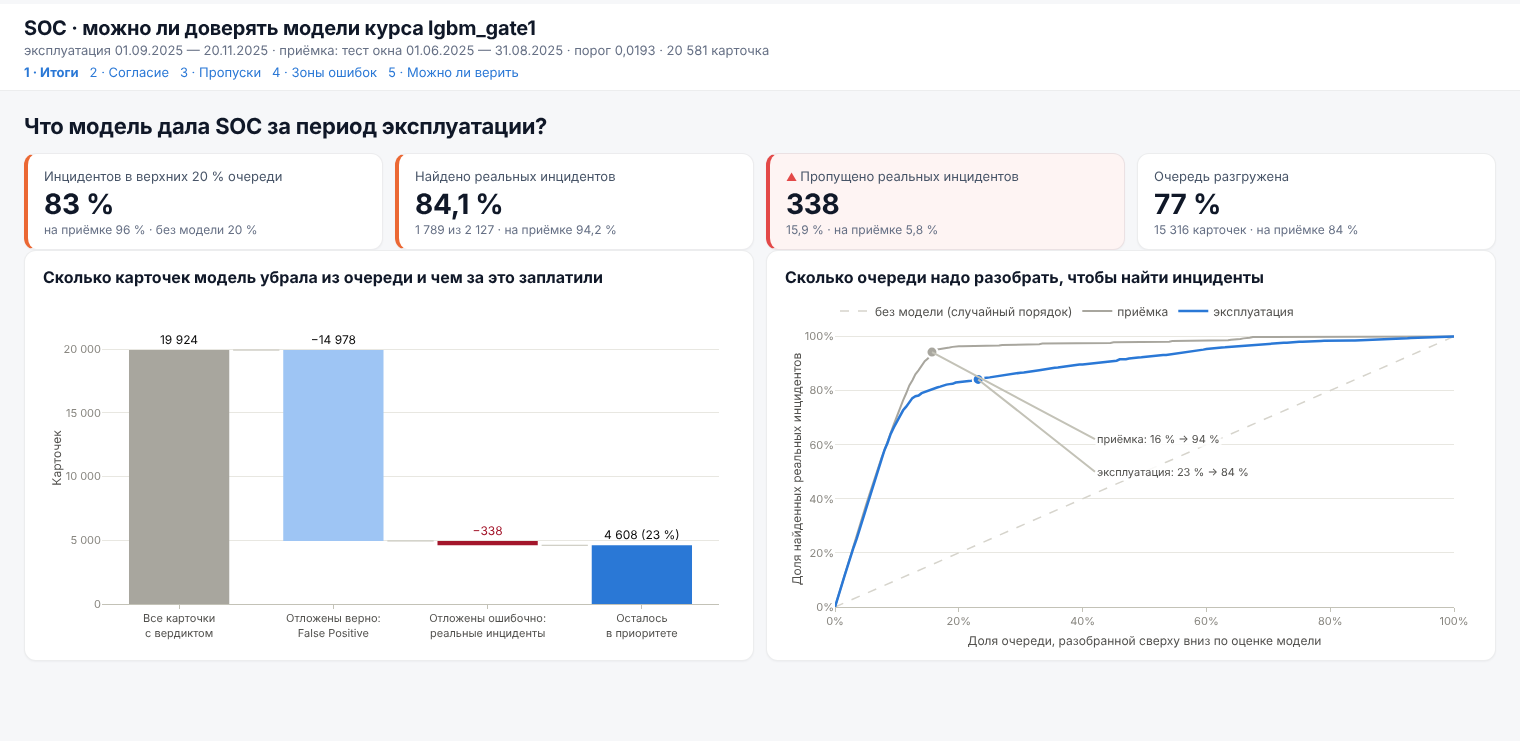
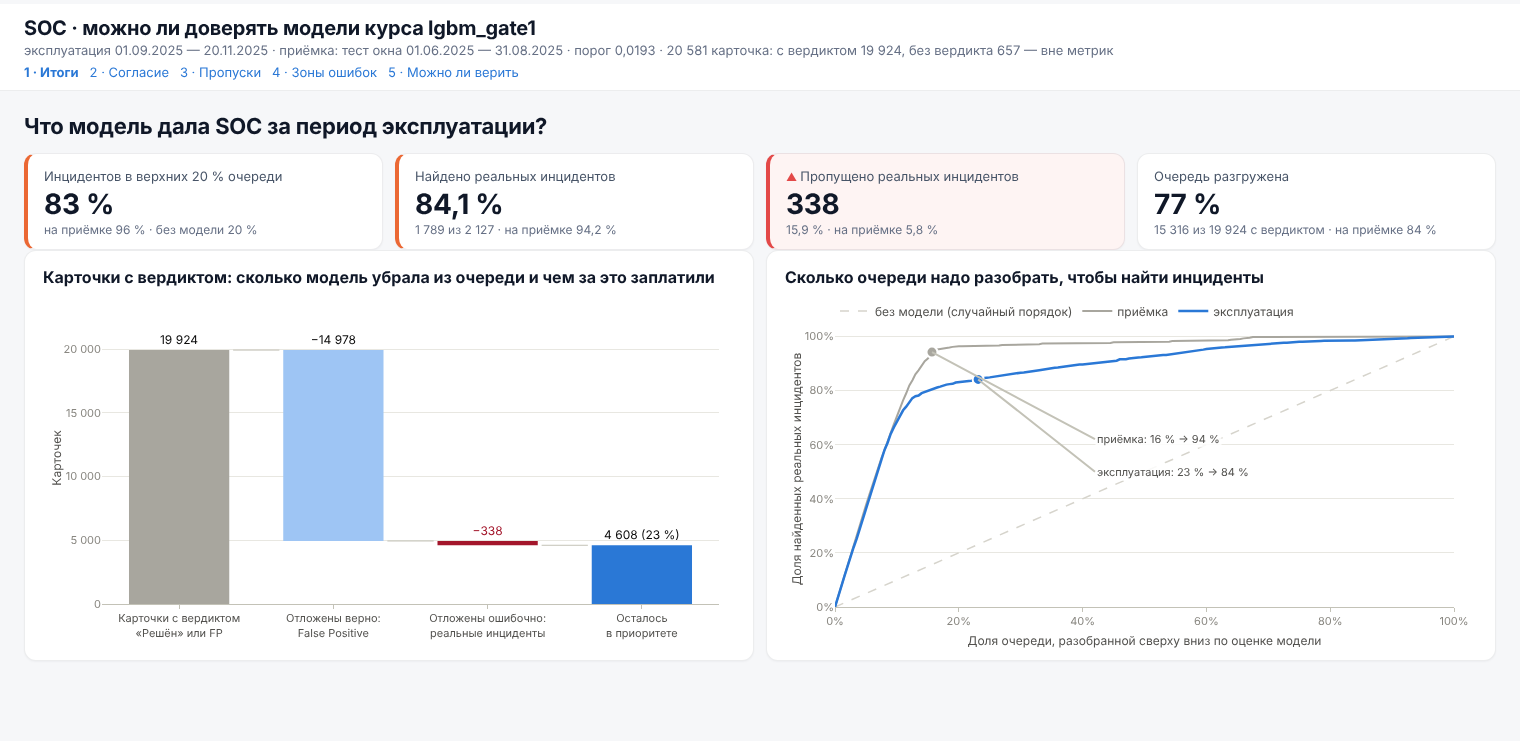
task_2: правки по ревью PR #4
- шапка показывает обе базы: все карточки и с вердиктом; каскад и плитка
  «Очередь разгружена» подписаны как «с вердиктом»
- правило карточки и его частота в обучении — по «Правилу корреляции SIEM»
  (поле области модели); prepare.py проверяет, что оно совпадает
  с «Наименованием» (100 %)
- «Пропущено высокой критичности»: сигнал по доле пропусков среди
  инцидентов высокой и критической критичности против приёмки
  (интервал Уилсона), подпись «N из M»
- «Согласие на инцидентах / на FP» и «FP в приоритете»: свой порог —
  ниже приёмки больше чем на 5 п. п. с учётом интервала

diff --git a/task_2/dashboard_kpis.py b/task_2/dashboard_kpis.py
@@ -14,6 +14,9 @@ import dashboard_data as dd
 
 DASH = "—"
 LOW_SHARE_DROP = 0.5    # разгрузка очереди упала более чем вдвое против приёмки — сигнал
+AGREE_DROP = 0.05       # согласие с аналитиком (на инцидентах или на FP) ниже приёмки больше чем на 5 п. п.
+                        # даже с учётом 95 %-ного интервала — сигнал
+HIGH_CRIT = ["Высокая", "Критическая"]
 AUC_DROP = 0.05         # AUC ниже приёмки больше чем на 0,05 — сигнал
 OVERCONF = 1.5          # модель завышает долю инцидентов в 1,5 раза и больше — сигнал
 CONFIDENT_MISS = 0.5    # больше половины пропусков далеко от порога — сигнал (сдвиг порога не поможет)
@@ -67,6 +70,11 @@ def _top_share(d: pd.DataFrame, share: float = TOP_SHARE) -> float:
     return float(np.interp(share, g["x"], g["y"])) if len(g) else np.nan
 
 
+def below_acceptance(k: int, n: int, ref: float, drop: float = AGREE_DROP) -> bool:
+    """Доля k/n ниже эталона приёмки ref больше чем на drop даже по верхней границе интервала Уилсона."""
+    return bool(n and np.isfinite(ref) and dd.wilson(k, n)[1] < ref - drop)
+
+
 def results(oper: pd.DataFrame, c: dd.Confusion, cv: dd.Confusion, target_miss: float,
             val: pd.DataFrame | None = None) -> dict:
     if c.n == 0:
@@ -79,7 +87,7 @@ def results(oper: pd.DataFrame, c: dd.Confusion, cv: dd.Confusion, target_miss: 
                  alert=dd.wilson(c.fn, c.pos)[0] > target_miss)       # хуже приёмки с учётом случайности
     dropped = cv.n and c.low_share < cv.low_share * LOW_SHARE_DROP
     out |= _tile("r_low", dd.fmt_pct(c.low_share, 0),
-                 f"{dd.fmt_int(c.fn + c.tn)} карточек · на приёмке {dd.fmt_pct(cv.low_share, 0)}",
+                 f"{dd.fmt_int(c.fn + c.tn)} из {dd.fmt_int(c.n)} с вердиктом · на приёмке {dd.fmt_pct(cv.low_share, 0)}",
                  alert=bool(dropped))
     return out
 
@@ -93,14 +101,16 @@ def agreement(oper: pd.DataFrame, c: dd.Confusion, cv: dd.Confusion) -> dict:
     ratio = c.neg / c.pos if c.pos else np.nan
     out |= _tile("a_all", dd.fmt_pct(c.agreement),
                  f"FP в {dd.fmt_num(ratio, 1)} раза больше инцидентов" if c.pos else "")
-    out |= _tile("a_inc", dd.fmt_pct(c.recall), f"на приёмке {dd.fmt_pct(cv.recall)}", kind="kpi-real")
+    out |= _tile("a_inc", dd.fmt_pct(c.recall), f"на приёмке {dd.fmt_pct(cv.recall)}",
+                 alert=below_acceptance(c.tp, c.pos, cv.recall), kind="kpi-real")
     out |= _tile("a_fp", dd.fmt_pct(c.specificity), f"на приёмке {dd.fmt_pct(cv.specificity)}",
-                 alert=bool(cv.n and c.specificity < cv.specificity * LOW_SHARE_DROP), kind="kpi-fp")
+                 alert=below_acceptance(c.tn, c.neg, cv.specificity), kind="kpi-fp")
     return out
 
 
 # ---------------------------------------------------------------- 3. Пропуски
-def misses(oper: pd.DataFrame, c: dd.Confusion, mon_oper: pd.DataFrame, thr: float, target_miss: float) -> dict:
+def misses(oper: pd.DataFrame, c: dd.Confusion, mon_oper: pd.DataFrame, thr: float, target_miss: float,
+           val: pd.DataFrame | None = None) -> dict:
     if c.pos == 0:
         return empty("misses")
     lo, hi = dd.wilson(c.fn, c.pos)
@@ -112,11 +122,18 @@ def misses(oper: pd.DataFrame, c: dd.Confusion, mon_oper: pd.DataFrame, thr: flo
         out |= _tile("m_months", f"{len(bad)} из {len(mon_oper)}", note, alert=len(bad) > 0)
     else:
         out |= _tile("m_months", DASH)
-    miss = oper[(oper["y"] == 1) & ~oper["pred"]]
-    high = int(miss["crit"].isin(["Высокая", "Критическая"]).sum())
-    out |= _tile("m_high", dd.fmt_int(high),
-                 f"из {dd.fmt_int(len(miss))} {dd.plural(len(miss), ('пропуска', 'пропусков', 'пропусков'))}",
-                 alert=high > 0)
+    # пропуски высокой и критической критичности: доля среди таких инцидентов против приёмки
+    inc_h = oper[(oper["y"] == 1) & oper["crit"].isin(HIGH_CRIT)]
+    fn_h = int((~inc_h["pred"]).sum())
+    ref_h = target_miss
+    if val is not None:
+        val_h = val[(val["y"] == 1) & val["crit"].isin(HIGH_CRIT)]
+        if len(val_h) >= dd.MIN_POS:                    # на малой приёмке берём общий уровень пропусков
+            ref_h = float((~val_h["pred"]).mean())
+    out |= _tile("m_high", dd.fmt_int(fn_h),
+                 f"{fn_h} из {dd.fmt_int(len(inc_h))} ({dd.fmt_pct(fn_h / len(inc_h), 0) if len(inc_h) else DASH}) · "
+                 f"на приёмке {dd.fmt_pct(ref_h)}",
+                 alert=bool(len(inc_h) and dd.wilson(fn_h, len(inc_h))[0] > ref_h))
     near, n = dd.near_threshold_share(oper, thr)
     far = n - near                                       # оценка ниже половины порога: сдвиг порога не вернёт
     out |= _tile("m_near", dd.fmt_pct(far / n, 0) if n else DASH,
@@ -126,7 +143,7 @@ def misses(oper: pd.DataFrame, c: dd.Confusion, mon_oper: pd.DataFrame, thr: flo
 
 
 # ---------------------------------------------------------------- 4. Зоны ошибок
-def errors(oper: pd.DataFrame, c: dd.Confusion) -> dict:
+def errors(oper: pd.DataFrame, c: dd.Confusion, cv: dd.Confusion | None = None) -> dict:
     if c.n == 0:
         return empty("errors")
     worst = None
@@ -163,7 +180,9 @@ def errors(oper: pd.DataFrame, c: dd.Confusion) -> dict:
                      alert=ru > 2 * c.miss)
     else:
         out |= _tile("e_new", DASH, "нет инцидентов новых правил")
-    out |= _tile("e_fp", dd.fmt_pct(1 - c.specificity, 0), f"{dd.fmt_int(c.fp)} карточек",
+    out |= _tile("e_fp", dd.fmt_pct(1 - c.specificity, 0), f"{dd.fmt_int(c.fp)} карточек · на приёмке {dd.fmt_pct(1 - cv.specificity, 0)}"
+                 if cv is not None and cv.neg else f"{dd.fmt_int(c.fp)} карточек",
+                 alert=bool(cv is not None and below_acceptance(c.tn, c.neg, cv.specificity)),
                  kind="kpi-fp")
     return out
 

diff --git a/task_2/report.py b/task_2/report.py
@@ -19,7 +19,7 @@ import dashboard_data as dd
 OUT = Path(__file__).resolve().parent / "REPORT.md"
 
 CHARTS = [
-    ("1 · Итоги", "Сколько карточек модель убрала из очереди и чем за это заплатили", "Каскадная (waterfall)", "waterfall",
+    ("1 · Итоги", "Карточки с вердиктом: сколько модель убрала из очереди и чем за это заплатили", "Каскадная (waterfall)", "waterfall",
      "круговая: не показывает последовательность «всё → убрали → осталось» и теряет маленький, но важный шаг пропусков"),
     ("1 · Итоги", "Сколько очереди надо разобрать, чтобы найти инциденты", "Кривая поиска (cumulative gains)", "gains",
      "ROC-кривая: FPR непонятен руководителю, а вопрос «сколько карточек разобрать» она не отвечает"),
@@ -105,7 +105,7 @@ def build(store: dd.Store, f: dd.Filters | None = None) -> str:
                         f"против {dd.fmt_pct(cv.low_share, 0)} на приёмке.")
     else:
         queue_bullet = (f"- **Очередь модель разгружает почти как на приёмке:** откладывает {dd.fmt_pct(c.low_share, 0)} "
-                        f"карточек (на приёмке {dd.fmt_pct(cv.low_share, 0)}). ")
+                        f"карточек с вердиктом (на приёмке {dd.fmt_pct(cv.low_share, 0)}). ")
         if c.precision < cv.precision / 1.5:
             queue_bullet += (f"Но доля реальных инцидентов в приоритетной очереди упала: {dd.fmt_pct(c.precision, 0)} "
                              f"против {dd.fmt_pct(cv.precision, 0)} на приёмке.")
@@ -164,7 +164,9 @@ def build(store: dd.Store, f: dd.Filters | None = None) -> str:
         f"*Каскадная диаграмма.* Из {dd.fmt_int(c.n)} карточек с вердиктом модель отложила {dd.fmt_int(c.fn + c.tn)} "
         f"({dd.fmt_pct(c.low_share)}): {dd.fmt_int(c.tn)} верно (False Positive) и {c.fn} ошибочно (реальные инциденты). "
         f"В приоритете осталось {dd.fmt_int(c.tp + c.fp)} карточек, и инцидентом в них оказывается каждая "
-        f"{every(c.precision)}-я ({dd.fmt_pct(c.precision)}); на приёмке — {dd.fmt_pct(cv.precision)}.",
+        f"{every(c.precision)}-я ({dd.fmt_pct(c.precision)}); на приёмке — {dd.fmt_pct(cv.precision)}. "
+        f"Ещё {dd.fmt_int((oper['y'] < 0).sum())} карточек без вердикта модель тоже оценила, но в каскад и в долю "
+        "разгрузки они не входят: сверить их решение не с чем.",
         "",
         f"*Кривая поиска.* Если разбирать очередь сверху вниз по оценке модели, первые 20 % карточек содержат "
         f"{dd.fmt_pct(g20, 0)} реальных инцидентов в эксплуатации против {dd.fmt_pct(g20v, 0)} на приёмке (без модели — 20 %). "

diff --git a/task_2/prepare.py b/task_2/prepare.py
@@ -85,6 +85,11 @@ def first_item(x) -> str | None:
     return x
 
 
+def rule_of(cards: pd.DataFrame) -> pd.Series:
+    """Правило SIEM карточки — из «Правила корреляции SIEM», того же поля, что задаёт область модели."""
+    return cards["Правило корреляции SIEM"].map(first_item)
+
+
 def needed_columns(advisor: CourseAdvisor, available: list[str]) -> list[str]:
     cfg = advisor.cfg
     cols = set(EXTRA_COLS) | set(advisor.data_mod.LIST_LEN_SOURCE)
@@ -161,7 +166,7 @@ def build_frame(cards: pd.DataFrame, proba: np.ndarray, part: str, rule_counts: 
         "verdict": cards["Вердикт"].to_numpy(),
         "y": cards["Вердикт"].map(LABELS).fillna(-1).astype("int8").to_numpy(),
         "proba": proba,
-        "rule": cards["Наименование"].to_numpy(),
+        "rule": rule_of(cards).to_numpy(),
         "inc_type": cards["Тип инцидента"].map(first_item).to_numpy(),
         "irp": cards["Пиктограмма IRP"].map(first_item).to_numpy(),
         "crit": cards["Критичность"].map(first_item).to_numpy(),
@@ -196,7 +201,12 @@ def main(path: Path, course_dir: Path) -> None:
     print(f"Эксплуатация: {len(oper):,} карточек в области модели "
           f"(вне области: {int(((created >= OPER_START) & ~scope).sum())})")
 
-    rule_counts = raw.loc[ids.isin(split["train"]), "Наименование"].value_counts()
+    # частота правила в обучении — по «Правилу корреляции SIEM»; модель видит «Наименование»
+    # (freq_Наименование), поэтому проверяем, что это одно и то же правило
+    rules = rule_of(raw)
+    same_rule = float((rules == raw["Наименование"])[rules.notna()].mean())
+    print(f"«Правило корреляции SIEM» совпадает с «Наименованием» у {same_rule:.2%} карточек")
+    rule_counts = rules[ids.isin(split["train"])].value_counts()
     p_test = advisor.predict_proba(test)
     p_oper = advisor.predict_proba(oper)
     scored = pd.concat([build_frame(test, p_test, "Приёмка", rule_counts),
@@ -232,7 +242,7 @@ def main(path: Path, course_dir: Path) -> None:
         "n_train": len(split["train"]),
         "pos_rate_train": float(raw.loc[ids.isin(split["train"]), "Вердикт"].eq("Решён").mean()),
         "threshold": tau, "target_miss": m_test["miss"], "target_recall": m_test["recall"],
-        "policies": policies, "default_policy": tau_label,
+        "policies": policies, "default_policy": tau_label, "rule_field_match": same_rule,
         "val_metrics": m_test, "oper_metrics": m_oper, "published_test_match": same,
     }
     (AGG_DIR / "meta.json").write_text(json.dumps(meta, ensure_ascii=False, indent=2), encoding="utf-8")

diff --git a/task_2/dashboard.py b/task_2/dashboard.py
@@ -52,9 +52,12 @@ def caption(store: dd.Store, f: dd.Filters, oper: pd.DataFrame) -> str:
     p = store.meta["periods"]
     span = (f"эксплуатация {dd.fmt_date(p['oper'][0])} — {dd.fmt_date(p['oper'][1])}" if f.period == dd.PERIOD_ALL
             else f"эксплуатация: {f.period.lower()}")
+    n_lab = int((oper["y"] >= 0).sum())
+    # метрики, каскад и разгрузка очереди считаются только по карточкам с вердиктом — показываем обе базы
     return (f"{span} · приёмка: тест окна {dd.fmt_date(p['train'][0])} — {dd.fmt_date(p['train'][1])} "
             f"· порог {dd.fmt_num(dd.threshold_of(store, f), 4)} · {dd.fmt_int(len(oper))} "
-            f"{dd.plural(len(oper), ('карточка', 'карточки', 'карточек'))}")
+            f"{dd.plural(len(oper), ('карточка', 'карточки', 'карточек'))}: с вердиктом {dd.fmt_int(n_lab)}, "
+            f"без вердикта {dd.fmt_int(len(oper) - n_lab)} — вне метрик")
 
 
 def view_segments(oper: pd.DataFrame, by: str, metric_label: str) -> dict:
@@ -81,11 +84,11 @@ def compute_all(store: dd.Store, f: dd.Filters, ctl: dict) -> dict:
     out |= kp.agreement(oper, c, cv)
     # 3 · Пропуски
     out |= dict(fig_miss=ch.fig_miss_monthly(mon, tm, sel), fig_missed_rules=ch.fig_missed_rules(oper))
-    out |= kp.misses(oper, c, mon_oper, thr, tm)
+    out |= kp.misses(oper, c, mon_oper, thr, tm, val)
     # 4 · Зоны ошибок
     out |= view_segments(oper, ctl["seg_by"], ctl["seg_metric"])
     out |= dict(fig_hist=ch.fig_score_hist(oper, thr))
-    out |= kp.errors(oper, c)
+    out |= kp.errors(oper, c, cv)
     # 5 · Можно ли верить
     out |= dict(fig_cal=ch.fig_calibration(val, oper), fig_drift=ch.fig_drift(mon, sel),
                 fig_dumbbell=ch.fig_dumbbell([
@@ -185,7 +188,7 @@ root_page = """
 results_page = "\n\n".join([
     question("Что модель дала SOC за период эксплуатации?"),
     kp.markup("results"),
-    two(card("Сколько карточек модель убрала из очереди и чем за это заплатили", "fig_waterfall", 380),
+    two(card("Карточки с вердиктом: сколько модель убрала из очереди и чем за это заплатили", "fig_waterfall", 380),
         card("Сколько очереди надо разобрать, чтобы найти инциденты", "fig_gains", 380)),
 ])
 

diff --git a/task_2/test_logic.py b/task_2/test_logic.py
@@ -247,6 +247,25 @@ class ChartsAndTiles(unittest.TestCase):
         empty = kp.results(d.iloc[0:0], dd.Confusion(), dd.Confusion(), 0.05)
         self.assertTrue(all(v == kp.DASH for k, v in empty.items() if k.endswith("_v")))
 
+    def test_agreement_alert_threshold(self):
+        # приёмка 96 %: падение до 70 % — сигнал, до 95 % — нет (порог не «вдвое», а 5 п. п. с интервалом)
+        cv = dd.Confusion(tp=390, fn=24, fp=107, tn=2652)
+        drop = kp.agreement(pd.DataFrame({"y": [0]}), dd.Confusion(tp=900, fn=100, fp=3000, tn=7000), cv)
+        same = kp.agreement(pd.DataFrame({"y": [0]}), dd.Confusion(tp=940, fn=60, fp=450, tn=9550), cv)
+        self.assertIn("kpi-alert", drop["a_fp_c"])
+        self.assertNotIn("kpi-alert", same["a_fp_c"])
+
+    def test_high_crit_alert_by_share_not_by_one_case(self):
+        def cards(n_inc, n_miss, crit="Высокая"):
+            return pd.DataFrame({"y": [1] * n_inc, "pred": [False] * n_miss + [True] * (n_inc - n_miss),
+                                 "crit": crit, "proba": [0.001] * n_miss + [0.9] * (n_inc - n_miss)})
+        val = cards(200, 10)                                         # на приёмке 5 %
+        one = kp.misses(cards(400, 1), dd.Confusion(tp=399, fn=1), pd.DataFrame(), 0.02, 0.05, val)
+        many = kp.misses(cards(400, 80), dd.Confusion(tp=320, fn=80), pd.DataFrame(), 0.02, 0.05, val)
+        self.assertNotIn("kpi-alert", one["m_high_c"])                # единичный пропуск — не сигнал
+        self.assertIn("kpi-alert", many["m_high_c"])                 # 20 % против 5 % — сигнал
+        self.assertIn("80 из 400", many["m_high_n"])
+
     def test_every_chart_has_why(self):
         import report
         keys = {row[3] for row in report.CHARTS}

diff --git a/task_2/dashboard_charts.py b/task_2/dashboard_charts.py
@@ -145,7 +145,7 @@ def fig_queue_waterfall(c: dd.Confusion) -> go.Figure:
     if c.n == 0:
         return empty()
     keep = c.tp + c.fp
-    x = ["Все карточки<br>с вердиктом", "Отложены верно:<br>False Positive",
+    x = ["Карточки с вердиктом<br>«Решён» или FP", "Отложены верно:<br>False Positive",
          "Отложены ошибочно:<br>реальные инциденты", "Осталось<br>в приоритете"]
     bases = [0, c.n - c.tn, keep, 0]
     heights = [c.n, c.tn, c.fn, keep]

diff --git a/task_2/REPORT.md b/task_2/REPORT.md
@@ -5,19 +5,19 @@
 - **Приёмка** — тестовая выборка того же окна, 3 173 карточки. Наш пересчёт дал TP 390 / FP 107 / FN 24 / TN 2652 — ровно как в карточке модели.
 - **Эксплуатация** — 01.09.2025 — 20.11.2025, карточки после окна обучения. Модель оценила 20 581 карточку, 19 924 из них аналитики закрыли вердиктом «Решён» или «False Positive» — по ним и сверяем.
 
-Отчёт собран скриптом `report.py` 14.11.2026. Числа совпадают с плитками дашборда при фильтрах по умолчанию. На листах дашборда — только KPI-плитки и графики; выводы и обоснование выбора каждого графика собраны здесь.
+Отчёт собран скриптом `report.py` 16.11.2026. Числа совпадают с плитками дашборда при фильтрах по умолчанию. На листах дашборда — только KPI-плитки и графики; выводы и обоснование выбора каждого графика собраны здесь.
 
 ## Коротко для руководителя SOC
 
 - **Пропусков стало в 2,7 раза больше, чем на приёмке.** Модель отправила в низкий приоритет 338 из 2 127 реальных инцидентов — 15,9 % (95 %-ный интервал 14,4 % — 17,5 %) против 5,8 % на приёмке. Хуже приёмки все 3 месяца эксплуатации.
-- **Очередь модель разгружает почти как на приёмке:** откладывает 77 % карточек (на приёмке 84 %). Но доля реальных инцидентов в приоритетной очереди упала: 39 % против 78 % на приёмке.
+- **Очередь модель разгружает почти как на приёмке:** откладывает 77 % карточек с вердиктом (на приёмке 84 %). Но доля реальных инцидентов в приоритетной очереди упала: 39 % против 78 % на приёмке.
 - **Данные изменились, модель устарела.** Качество ранжирования (AUC) 0,977 на приёмке и 0,909 в эксплуатации. Обогащение («Вендор» и «Алерт») заполнено у 43 % карточек против 77 % на приёмке, а в ноябре 2025 — у 26 %. Карточка модели предупреждает, что без обогащения модель теряет ядро сигнала.
 - **Ошибки систематические.** Пропуски сосредоточены в срезах: «Выполнение подозрительной команды» (тип инцидента), «Управление УЗ» (категория IRP), «Общий Инцидент ИБ» (тип инцидента), правила, которых не было в обучении. Только 39 из 338 пропусков лежат у порога; остальные модель пропустила уверенно, и сдвиг порога их не вернёт.
 - **Вердикт:** как сортировке очереди модели доверять можно — первые 20 % очереди содержат 83 % реальных инцидентов. Как фильтру, который откладывает карточки без проверки, — нельзя: в низкий приоритет уходит каждый 6-й реальный инцидент. Модель нужно переобучить на свежих месяцах и вернуть обогащение.
 
 ## 1. Что модель дала SOC за период эксплуатации?
 
-*Каскадная диаграмма.* Из 19 924 карточек с вердиктом модель отложила 15 316 (76,9 %): 14 978 верно (False Positive) и 338 ошибочно (реальные инциденты). В приоритете осталось 4 608 карточек, и инцидентом в них оказывается каждая 3-я (38,8 %); на приёмке — 78,5 %.
+*Каскадная диаграмма.* Из 19 924 карточек с вердиктом модель отложила 15 316 (76,9 %): 14 978 верно (False Positive) и 338 ошибочно (реальные инциденты). В приоритете осталось 4 608 карточек, и инцидентом в них оказывается каждая 3-я (38,8 %); на приёмке — 78,5 %. Ещё 657 карточек без вердикта модель тоже оценила, но в каскад и в долю разгрузки они не входят: сверить их решение не с чем.
 
 *Кривая поиска.* Если разбирать очередь сверху вниз по оценке модели, первые 20 % карточек содержат 83 % реальных инцидентов в эксплуатации против 96 % на приёмке (без модели — 20 %). Вверху очереди модель по-прежнему полезна; проблема — в хвосте, который она откладывает.
 
@@ -67,7 +67,7 @@
 
 | Страница | Вопрос | График | Почему он | Почему не другой |
 |---|---|---|---|---|
-| 1 · Итоги | Сколько карточек модель убрала из очереди и чем за это заплатили | Каскадная (waterfall) | Каскад показывает путь от всей очереди к приоритетной: сколько карточек модель убрала и сколько из убранных оказались реальными инцидентами. Шаги складываются, поэтому видно и выигрыш, и цену. | круговая: не показывает последовательность «всё → убрали → осталось» и теряет маленький, но важный шаг пропусков |
+| 1 · Итоги | Карточки с вердиктом: сколько модель убрала из очереди и чем за это заплатили | Каскадная (waterfall) | Каскад показывает путь от всей очереди к приоритетной: сколько карточек модель убрала и сколько из убранных оказались реальными инцидентами. Шаги складываются, поэтому видно и выигрыш, и цену. | круговая: не показывает последовательность «всё → убрали → осталось» и теряет маленький, но важный шаг пропусков |
 | 1 · Итоги | Сколько очереди надо разобрать, чтобы найти инциденты | Кривая поиска (cumulative gains) | Кривая поиска отвечает на вопрос руководителя «сколько карточек надо разобрать, чтобы найти большую часть инцидентов». Диагональ — очередь без модели; чем выше кривая, тем полезнее сортировка. | ROC-кривая: FPR непонятен руководителю, а вопрос «сколько карточек разобрать» она не отвечает |
 | 2 · Согласие | Вердикт аналитика → решение модели | Санки (Sankey) | Санки показывает объёмы связей «вердикт аналитика → решение модели». Ширина ленты — число карточек, так что согласие и расхождения видны сразу, без чтения матрицы ошибок. | матрица ошибок 2×2: цифры есть, но соотношение объёмов (FP в 8 раз больше инцидентов) глазом не считывается |
 | 2 · Согласие | Когда модель начала расходиться с аналитиками | Линейный график по месяцам | Линии по месяцам показывают, когда модель начала расходиться с аналитиками. Согласие на инцидентах и на FP разведено: общая доля согласия маскируется численным перевесом FP. | одна линия общего согласия: она почти полностью повторяет FP и прячет поведение на инцидентах |
